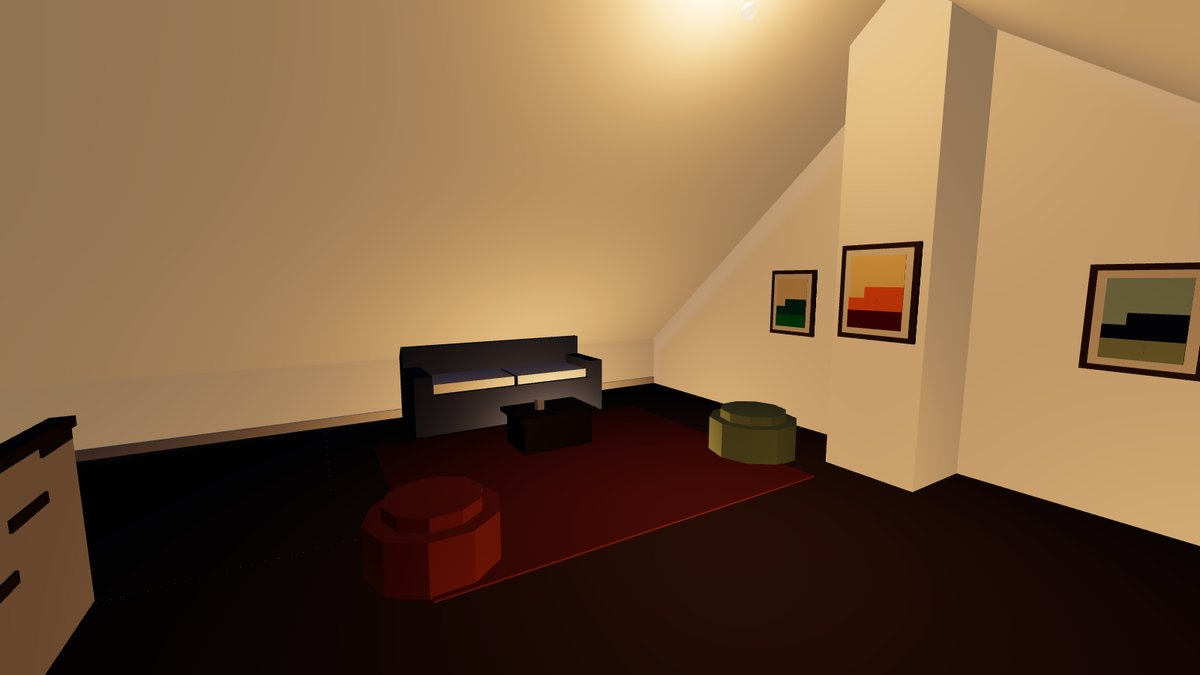
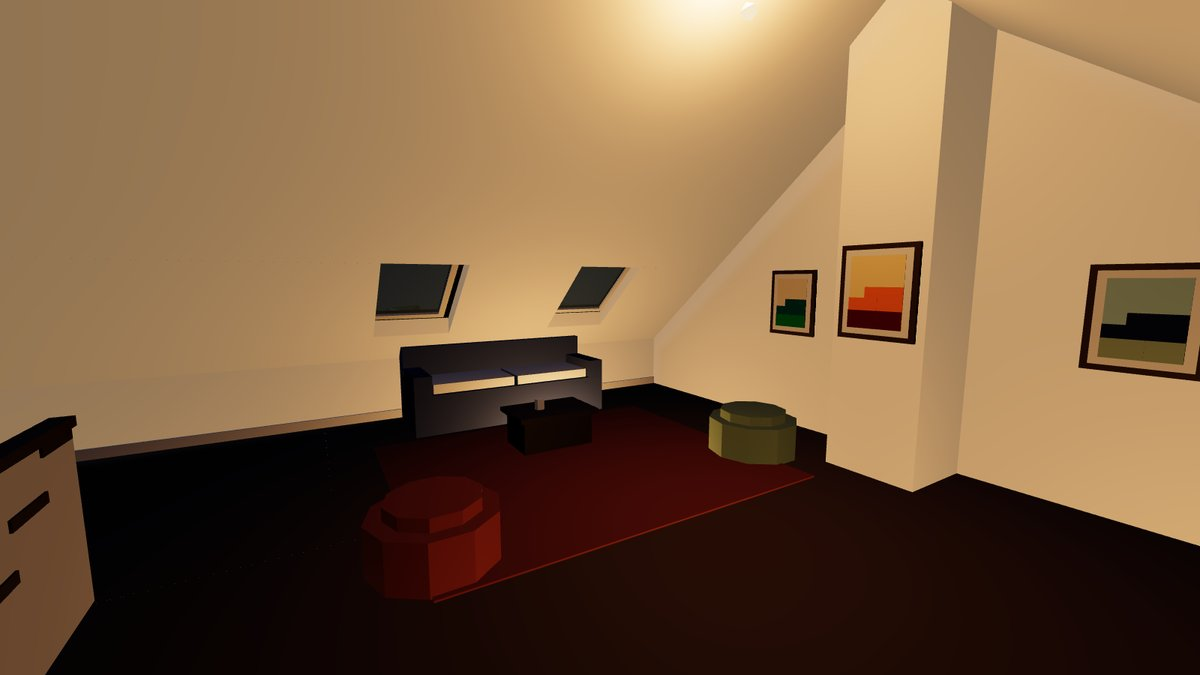
Preview views of the roof windows, docs and gallery
Claude-Session: https://claude.ai/code/session_018a4z81Jsp4z77w72neqAo3

Changed region(s): [[0.3083, 0.3733, 0.4008, 0.4978], [0.4625, 0.3733, 0.5242, 0.4667]]

diff --git a/tools/preview/Exporter/ViewsExport.cs b/tools/preview/Exporter/ViewsExport.cs
@@ -57,12 +57,14 @@ internal static class ViewsExport
             Inside("kettleStore", 2.4f, f[0] + 1.6f, 5.4f, 5.5f, f[0] + 0.9f, 9.0f);
             Inside("kettleHall", 0.8f, f[0] + 1.6f, 0.45f, 0.8f, f[0] + 2.7f, 4.5f);
             Inside("kettleLanding", 1.9f, f[1] + 1.6f, 6.6f, 1.9f, f[2] + 0.8f, 1.6f);
-            Inside("kettleLiving", 6.4f, f[1] + 1.6f, 4.5f, 3.2f, f[1] + 0.9f, 0.6f);
+            Inside("kettleLiving", 6.6f, f[1] + 1.6f, 0.6f, 3.4f, f[1] + 0.9f, 4.6f);
             Inside("kettleKitchen", 3.0f, f[1] + 1.6f, 5.4f, 5.4f, f[1] + 0.9f, 9.2f);
             Inside("kettleBedroom", 3.0f, f[2] + 1.6f, 0.7f, 5.2f, f[2] + 0.6f, 4.6f);
             Inside("kettleBathroom", 3.2f, f[2] + 1.6f, 5.3f, 5.6f, f[2] + 0.6f, 9.0f);
             Inside("kettleAttic", 2.2f, f[3] + 1.6f, 6.3f, 3.6f, f[3] + 1.3f, 1.2f);
             Inside("kettleSnug", 2.4f, f[3] + 1.6f, 2.6f, 5.4f, f[3] + 0.9f, 7.6f);
+            Inside("kettleRoofWindows", 4.3f, f[3] + 1.5f, 5.4f, 4.3f, f[3] + 1.7f, 8.4f);
+            views.Add(View("kettleBack", space.At(space.Width * 0.5f, f[3] + 4f, space.Depth + 9f), space.At(space.Width * 0.5f, f[3] + 1.2f, space.Depth * 0.7f), 50f));
         }
 
         File.WriteAllText(path, "{" + string.Join(",", views) + "}\n");

diff --git a/docs/ARCHITECTURE.md b/docs/ARCHITECTURE.md
@@ -148,14 +148,25 @@ A shop marked `Enterable` (only the Copper Kettle) is built inside as well as ou
   bathroom on the second, and an attic study and snug under the roof, lit through the dormer. The
   attic has upright knee walls where the slopes come down, and the chimney stacks on its party walls
   are plastered in as chimney breasts.
-- Its windows are real openings with clear glass, front and back, and the dormer is built
-  see-through (`Dormer.Build(seeThrough: true)`), so you can look in and out. Interior surfaces use
-  their own materials (tiles, fabrics, linen) so the weather never wets or snows on them.
+- Its windows are real openings with `ClearGlass`, front and back, and the dormer is built
+  see-through (`Dormer.Build(seeThrough: true)`), so you can look in and out. A see-through
+  `WindowStyle` puts the faintly tinted glass on both sides and stands the frames proud of it inside
+  as well as out, with a wooden board along the bottom. Interior surfaces use their own materials
+  (tiles, fabrics, linen) so the weather never wets or snows on them.
+- Two roof windows (`RoofWindow`) light the attic's snug from the back slope: `GableRoof.Build`
+  leaves a `RoofOpening` in the slates for each, the attic's lining is cut round them with reveals
+  up to the slates, and the glazed sash pivots open about a level line across its middle.
+- `CafeAndFlat.Walkways` lists the ways in from each door and through each doorway; a test keeps
+  every bit of furniture out of them.
+- Hanging lights go in `BuildContext.Fittings`, a mesh of their own (`MeshCategory.Fittings`) that
+  isn't solid, so you never snag on one; the landings have flush lights instead of pendants.
 
 Doors that open are not part of the building's mesh. `BuildContext.Door` builds the leaf in its own
-mesh around its hinge and records a `TownDoor` (hinge, the way it closes across, the way it opens,
-size), which `GeneratedTown.Doors` hands to the runtime. The shopfront makes two: the café door in
-the glazed lobby on the right and the flat's door on the left.
+mesh around its hinge and records a `TownDoor` (hinge, the line it turns about, the way it closes
+across, the way it opens, size), which `GeneratedTown.Doors` hands to the runtime. The shopfront
+makes two: the café door in the glazed lobby on the right and the flat's door on the left. The roof
+windows are `TownDoor`s too, turning about a level axis across the slope, so the top of the sash
+tips into the room.
 
 ### Dressing
 
@@ -309,7 +320,8 @@ applies them. Everything is driven from code on stock URP materials, apart from 
   and the river's edge turns you back. Anything implementing `IInteractable` that the crosshair
   is on within reach shows its prompt in `WalkingHud` and is used with E or a click.
 - **Doors.** `SwingingDoor` turns each `TownDoor` into a hinge with the leaf under it, and is the
-  `IInteractable` that swings it open into the room or shut again. In play mode the leaf gets a
+  `IInteractable` that swings it open into the room or shut again, about the door's own axis (so it
+  also opens the roof windows). In play mode the leaf gets a
   convex collider on a kinematic body, so a shut door blocks you and an open one stands aside.
 - **`ControlPanel`** is drawn with Unity's immediate-mode GUI and a skin made in code
   (`PanelSkin`), so it needs no assets, works with either input system and scales with the screen.

diff --git a/tools/preview/README.md b/tools/preview/README.md
@@ -22,7 +22,7 @@ the Fellside Coffee game takes the camera) and the petrol station's `petrol`, `p
 `petrolNear` and `petrolWindow`, are worked out by the exporter into `views.json`, as are the
 Copper Kettle's (`kettle` from the street, then inside: `kettleCafe`, `kettleCounter`, `kettleStore`,
 `kettleHall`, `kettleLanding`, `kettleLiving`, `kettleKitchen`, `kettleBedroom`, `kettleBathroom` and
-`kettleAttic` and `kettleSnug`), which are drawn without rain or snow. The exporter also writes `lights.json` and
+`kettleAttic`, `kettleSnug` and `kettleRoofWindows`, and `kettleBack` from behind the terrace), which are drawn without rain or snow. The exporter also writes `lights.json` and
 `storm.json`, worked out by the same `Townscape.Simulation` code Unity uses: glowing materials and
 lamps, wet surfaces, rain, ripples, chimney smoke and bolts. Rain and smoke are frozen in a single
 moment and only approximate the particles in Unity: judge geometry, layout and colours here, and

diff --git a/README.md b/README.md
@@ -56,6 +56,8 @@ The café door is on the right, in the glazed lobby; the door on the left opens 
 | The café after dark | The counter, the cakes and the espresso machine |
 | ![The flat's living room at night, lit by a pendant lamp](docs/images/gallery/kettle-living-night.jpg) | ![The attic snug at night, with pictures on the walls](docs/images/gallery/kettle-snug-night.jpg) |
 | The flat's living room in the evening | The attic: a snug and a study under the slates |
+| ![Two roof windows over the attic's sofa](docs/images/gallery/kettle-roof-windows-day.jpg) | ![The roof windows in the back slope, from outside](docs/images/gallery/kettle-back-dusk.jpg) |
+| Roof windows over the snug: press E to tip one open | The same windows from behind the terrace at dusk |
 
 *Rendered by [`tools/preview`](tools/preview/README.md), which draws the generated town with three.js
 outside Unity. In Unity the rain, snow and smoke move, the water ripples and the lightning flickers.*

diff --git a/docs/REQUIREMENTS.md b/docs/REQUIREMENTS.md
@@ -129,7 +129,10 @@ before work started; later changes should be recorded here too.
 10. **The Copper Kettle:** go inside the café and the flat above it through doors that open. The café
     has a counter and till, a cake cabinet, an espresso machine, tables and a storeroom; the flat has
     a living room and kitchen, a bedroom and bathroom, and an attic study and snug under the dormer, up a
-    dog-leg stair. Its windows are clear glass you can see in and out of. *(this pull request)*
+    dog-leg stair. Its windows are clear glass you can see in and out of. *(done)*
+    - **Follow-ups:** roof windows over the attic snug that pivot open, window frames that read from
+      inside and faintly tinted glass, doorways kept clear of furniture, and ceiling lights you can't
+      catch your head on. *(this pull request)*
 
 ## Fellside Coffee
 
